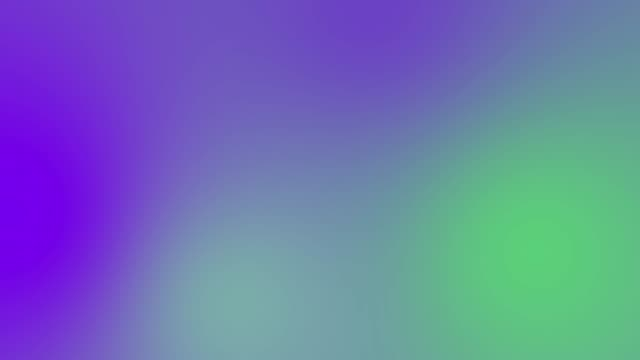
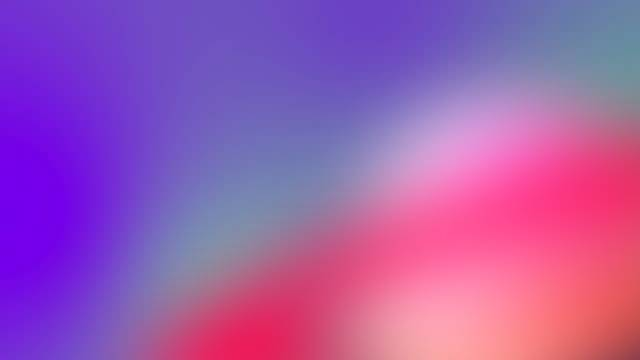
fix: improve theme styles and fix issues

diff --git a/src/theme/components/drawer.ts b/src/theme/components/drawer.ts
@@ -1,6 +1,19 @@
+import {mode} from "@chakra-ui/theme-tools";
+
 export const drawerStyles = {
 	components: {
 		Drawer: {
+			parts: ["overlay", "dialog"],
+			baseStyle: (props) => ({
+				overlay: {
+					bg: "none",
+					backdropFilter: "auto",
+					backdropBlur: "5px",
+				},
+				dialog: {
+					bg: mode("white", "gray.800")(props),
+				},
+			}),
 			// 3. We can add a new visual variant
 			variants: {
 				"with-shadow": {

diff --git a/src/theme/styles.ts b/src/theme/styles.ts
@@ -36,9 +36,10 @@ export const globalStyles = {
 				filter: "blur(80px)",
 				height: "200px",
 				zIndex: "0",
-				position: "absolute",
+				position: "fixed",
 				transform: "scale(1.5)",
 				backgroundPosition: "center",
+				backgroundSize: "cover",
 			},
 		}),
 	},

diff --git a/src/theme/additions/layout/MainPanel.ts b/src/theme/additions/layout/MainPanel.ts
@@ -9,6 +9,7 @@ const MainPanel = {
 		transitionDuration: ".2s, .2s, .35s",
 		transitionProperty: "top, bottom, width",
 		transitionTimingFunction: "linear, linear, ease",
+		overflowX: "hidden",
 	},
 	variants: {
 		main: (props) => ({

diff --git a/src/theme/components/modal.ts b/src/theme/components/modal.ts
@@ -11,7 +11,7 @@ const Modal: ComponentStyleConfig = {
 		overlay: {
 			bg: "none",
 			backdropFilter: "auto",
-			backdropBlur: "2px",
+			backdropBlur: "5px",
 		},
 	}),
 };
